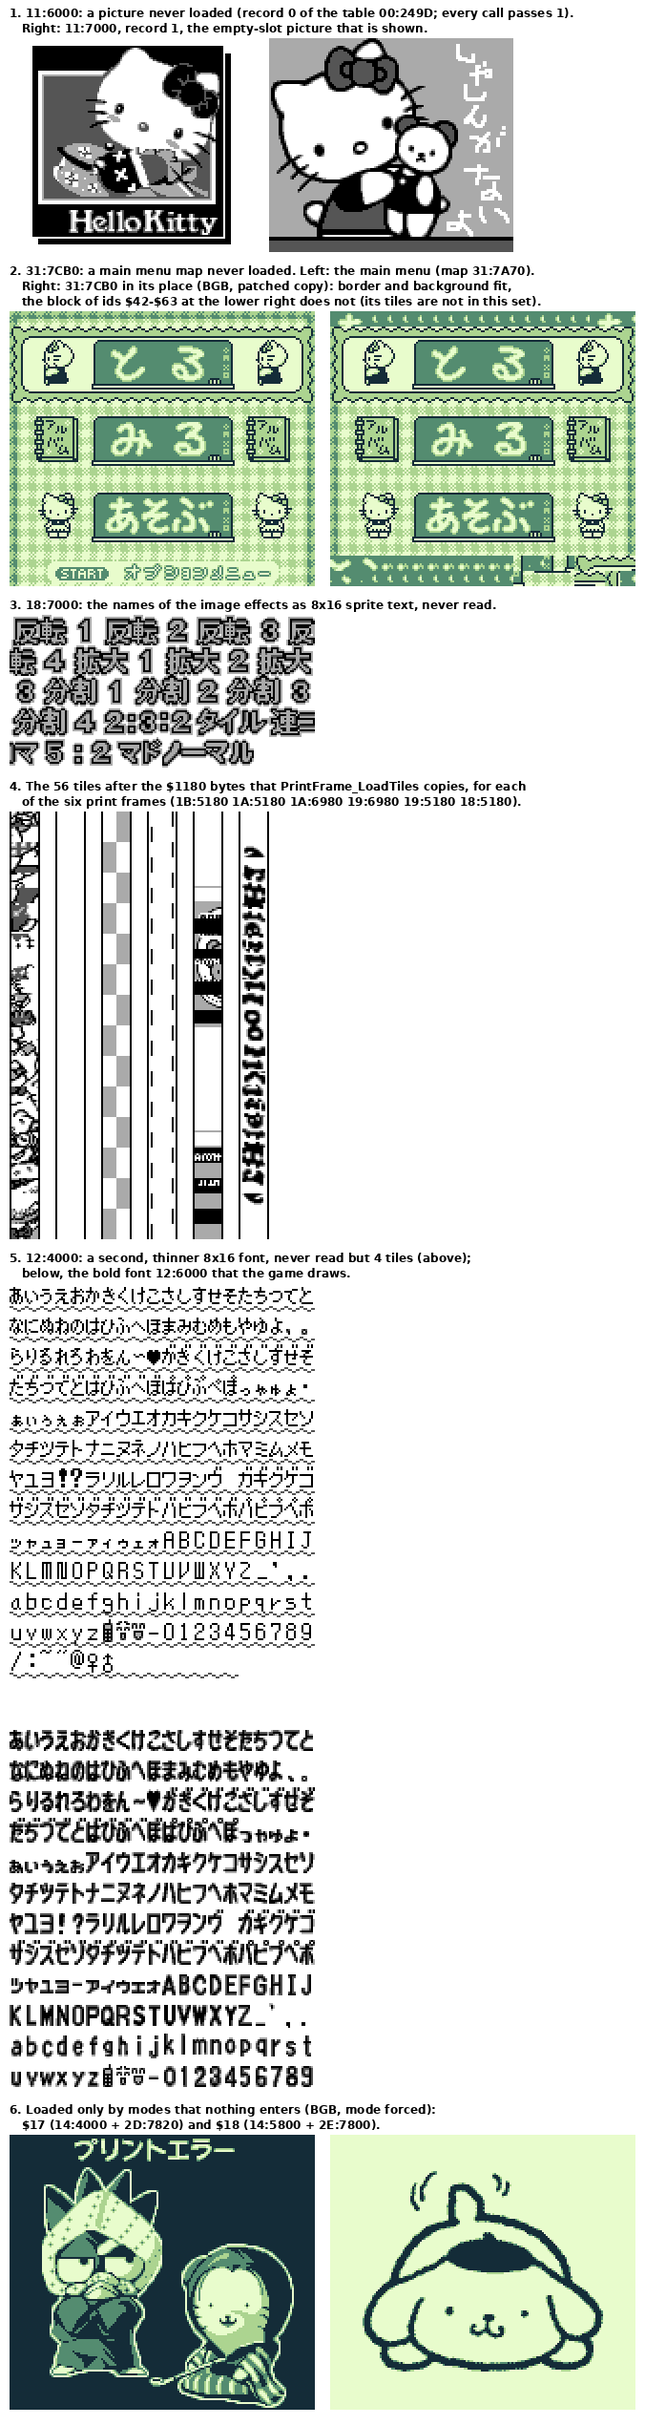
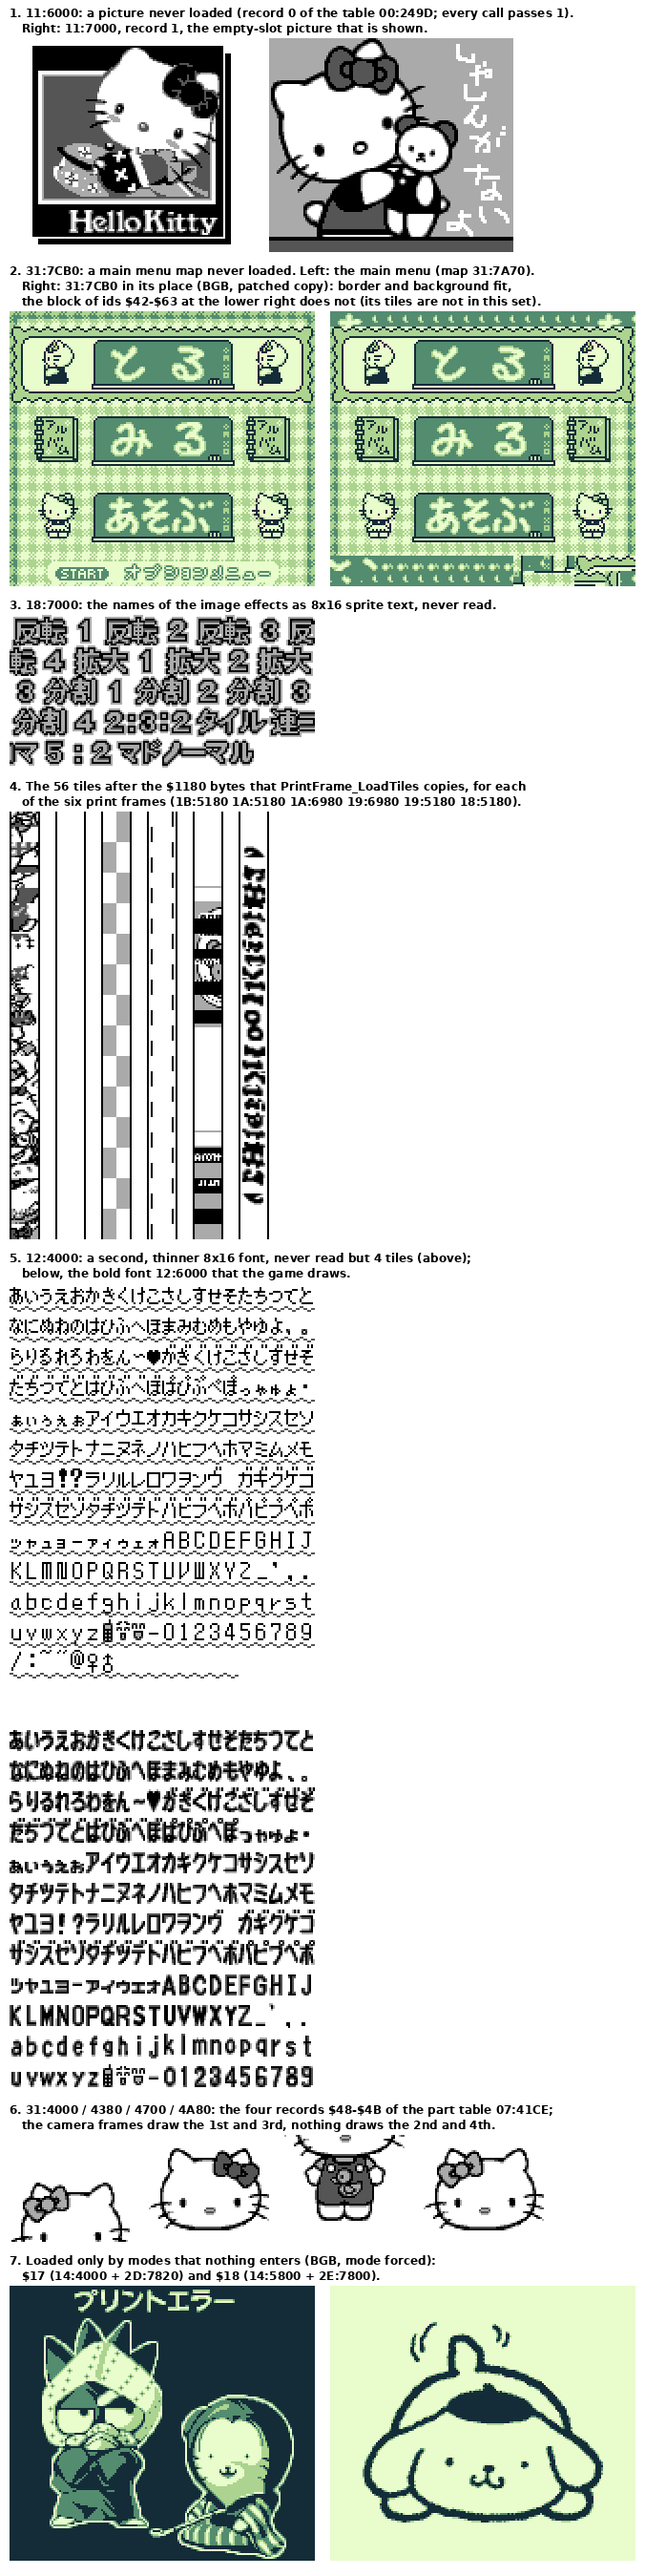
Hello Kitty: 31:4380 / 31:4A80 settled (two half pictures that no key list draws)
Claude-Session: https://claude.ai/code/session_011bkRcFvDptjxMkMYasBR8N

Changed region(s): [[0.0, 0.0, 0.9941, 0.9953]]

diff --git a/roms/hello_kitty/README.md b/roms/hello_kitty/README.md
@@ -86,14 +86,15 @@ The Kitty engine is not the Japanese one, so this ROM has its own tracer, `tools
 
 Drawn by `tools/make_screen_trees.py` (`tools/screen_tree.py`, left to right) from `screens/` (collected by `tools/screen_collect.py` from the explorations of `tools/kitty_bgb_explore.py`: a breadth-first search over single key taps in the core, each (mode, state) then replayed once in BGB, which must end on the same (mode, state); the start save is the owner's unlocking save, `tools/make_unlocked_saves.py --hello-kitty`). Panels: one per mode, the boot row from `disasm/screen_panels_kitty.csv` (title, quick factory check, factory calibration, each with its power-on condition). Arrows: reached by the keys written on them (C); two-headed when B leads back, from `screens/cancel.csv` (`tools/screen_cancel.py`: each key path replayed in BGB, then the same path plus B; 33 of 33 screens replayed on their screen). Grey notes: the keys inside a panel and B leading elsewhere. Orange box: forced only (I). Names: `disasm/screen_names_kitty.csv` (C = what the BGB screen shows, I = a forced screen). The checker redraws the tree from these files and compares the pixels; new screens need a new exploration in BGB.
 
-**Unused assets (2026-11-08; C for the loaders and the BGB captures, I for every "unused" verdict).** The never-read data of the reachability map (67,473 bytes not read in a run and explained by nothing) were sorted block by block: the readers of the read part of each block (`port/cov_kitty_runs.npz`, `reader`), the copy sites, every far pointer `{lo, hi, bank}` and `{bank, lo, hi}` in the ROM, exact tile matches over the whole ROM, the core replays of the print frames and of the Strawberry Channel without Kitts (89 bytes more), and BGB captures of patched copies. 30 blocks (881 bytes) were never touched at all; the rest are the unread parts of blocks that the runs did read. [`assets/unused_assets_kitty.csv`](assets/unused_assets_kitty.csv) lists 20 items: 10 unused, 4 unused because only an unreachable mode loads them, 4 used but not read in the runs, 2 open; [`assets/unused_assets_kitty.png`](assets/unused_assets_kitty.png) draws the unused ones:
+**Unused assets (2026-11-08; C for the loaders and the BGB captures, I for every "unused" verdict).** The never-read data of the reachability map (67,473 bytes not read in a run and explained by nothing) were sorted block by block: the readers of the read part of each block (`port/cov_kitty_runs.npz`, `reader`), the copy sites, every far pointer `{lo, hi, bank}` and `{bank, lo, hi}` in the ROM, exact tile matches over the whole ROM, the core replays of the print frames and of the Strawberry Channel without Kitts (89 bytes more), and BGB captures of patched copies. 30 blocks (881 bytes) were never touched at all; the rest are the unread parts of blocks that the runs did read. [`assets/unused_assets_kitty.csv`](assets/unused_assets_kitty.csv) lists 20 items: 11 unused, 4 unused because only an unreachable mode loads them, 4 used but not read in the runs, 1 open; [`assets/unused_assets_kitty.png`](assets/unused_assets_kitty.png) draws the unused ones:
   1. **A Hello Kitty picture, `11:6000`** (128 x 112, 224 tiles): record 0 of the table `00:249D`, whose record 1 (`11:7000`) is the "しゃしんがないよ" picture of an empty photo slot; all 9 calls of the two loaders pass 1, so record 0 is never loaded.
   2. **A second main menu map, `31:7CB0`**, the next map of the chain after the main menu map `31:7A70`. Put in its place in a patched copy, BGB draws the main menu with another border and background; the block of ids `$42`-`$63` at the lower right does not fit the menu tiles, and no tile set for it is found in the ROM (seam search).
   3. **The names of the image effects, `18:7000`**, as 8x16 sprite text: 反転1-4, 拡大1-3, 分割1-4, 2:3:2タイル, 連コマ5:2, マド, ノーマル (the effects of the effect table `04:5E8A`); nothing reads them.
   4. **The tails of the six print frames** (`1B:5180`, `1A:5180`, `1A:6980`, `19:6980`, `19:5180`, `18:5180`, 56 tiles each): `PrintFrame_LoadTiles` copies `$1180` bytes of each `$1500`-byte frame block and the last `$380` are never copied; they are vertical strips two tiles wide (one with the rotated text "Hello Kitty").
   5. **A second, thinner 8x16 font, `12:4000-5FDF`**: kana, Latin and digits like the bold font the game draws (`12:6000`); four of its tiles are read in the runs, the rest never, and no loader names it.
-  6. **The pictures of modes `$17` and `$18`** (tiles `14:4000` + map `2D:7820`, tiles `14:5800` + map `2E:7800`), loaded only by those modes (below).
-  Not unused: the never-read bytes of bank `$08` are the Super Game Boy transfers (`Sgb_VramTransferInline`, `$1000` bytes from five sources), the message texts of `1C:5A40` and the album page text of `27:7015` are shown in BGB in screens the core runs did not reach. Open: the tiles of a PRODUCER credits page (`31:4400-4DFF`) were not read in the runs while the rest of their tile set was, but the staff-credits channel was not played to its end with a check of them; the unplayed songs of bank `$0F` go with the sound roles (L4); object scripts and sprite layouts of banks `$02` / `$03` that the runs did not reach are not sorted.
+  6. **Two Kitty-face half pictures, `31:4380` and `31:4A80`** (64 x 56 each): records `$49` / `$4B` of the picture-part table `07:41CE`, between records `$48` / `$4A` (`31:4000`, `31:4700`) that the camera frame animation draws; no key list read with that table names them (the bytes `$49` / `$4B` are keys only of a Strawberry Channel list, which uses other part tables).
+  7. **The pictures of modes `$17` and `$18`** (tiles `14:4000` + map `2D:7820`, tiles `14:5800` + map `2E:7800`), loaded only by those modes (below).
+  Not unused: the never-read bytes of bank `$08` are the Super Game Boy transfers (`Sgb_VramTransferInline`, `$1000` bytes from five sources), the message texts of `1C:5A40` and the album page text of `27:7015` are shown in BGB in screens the core runs did not reach. Open: the unplayed songs of bank `$0F` go with the sound roles (L4); object scripts and sprite layouts of banks `$02` / `$03` that the runs did not reach are not sorted.
 
 **The modes seen only by forcing (C for the code facts and the forced BGB runs, I for their purpose; 2026-11-08).** Ten modes run only when the mode table is patched (`tools/kitty_bgb_forced_modes.py`): `$13`, `$15`-`$1D`. Of the 211 mode changes of the code, the only ones with a constant that names one of them are in that mode's own state `$00` (a fade to its own state `$01`); the 11 computed ones come from menu items, saved return screens and the print flow, and the Play menu table `02:5AB7` has exactly 4 items in a closed Up / Down loop (scratch card, 15 puzzle, slide show, Strawberry Channel). No core or BGB run reached them. What they do when forced:
   * `$13`, `$1D`: back to the main menu at once.
